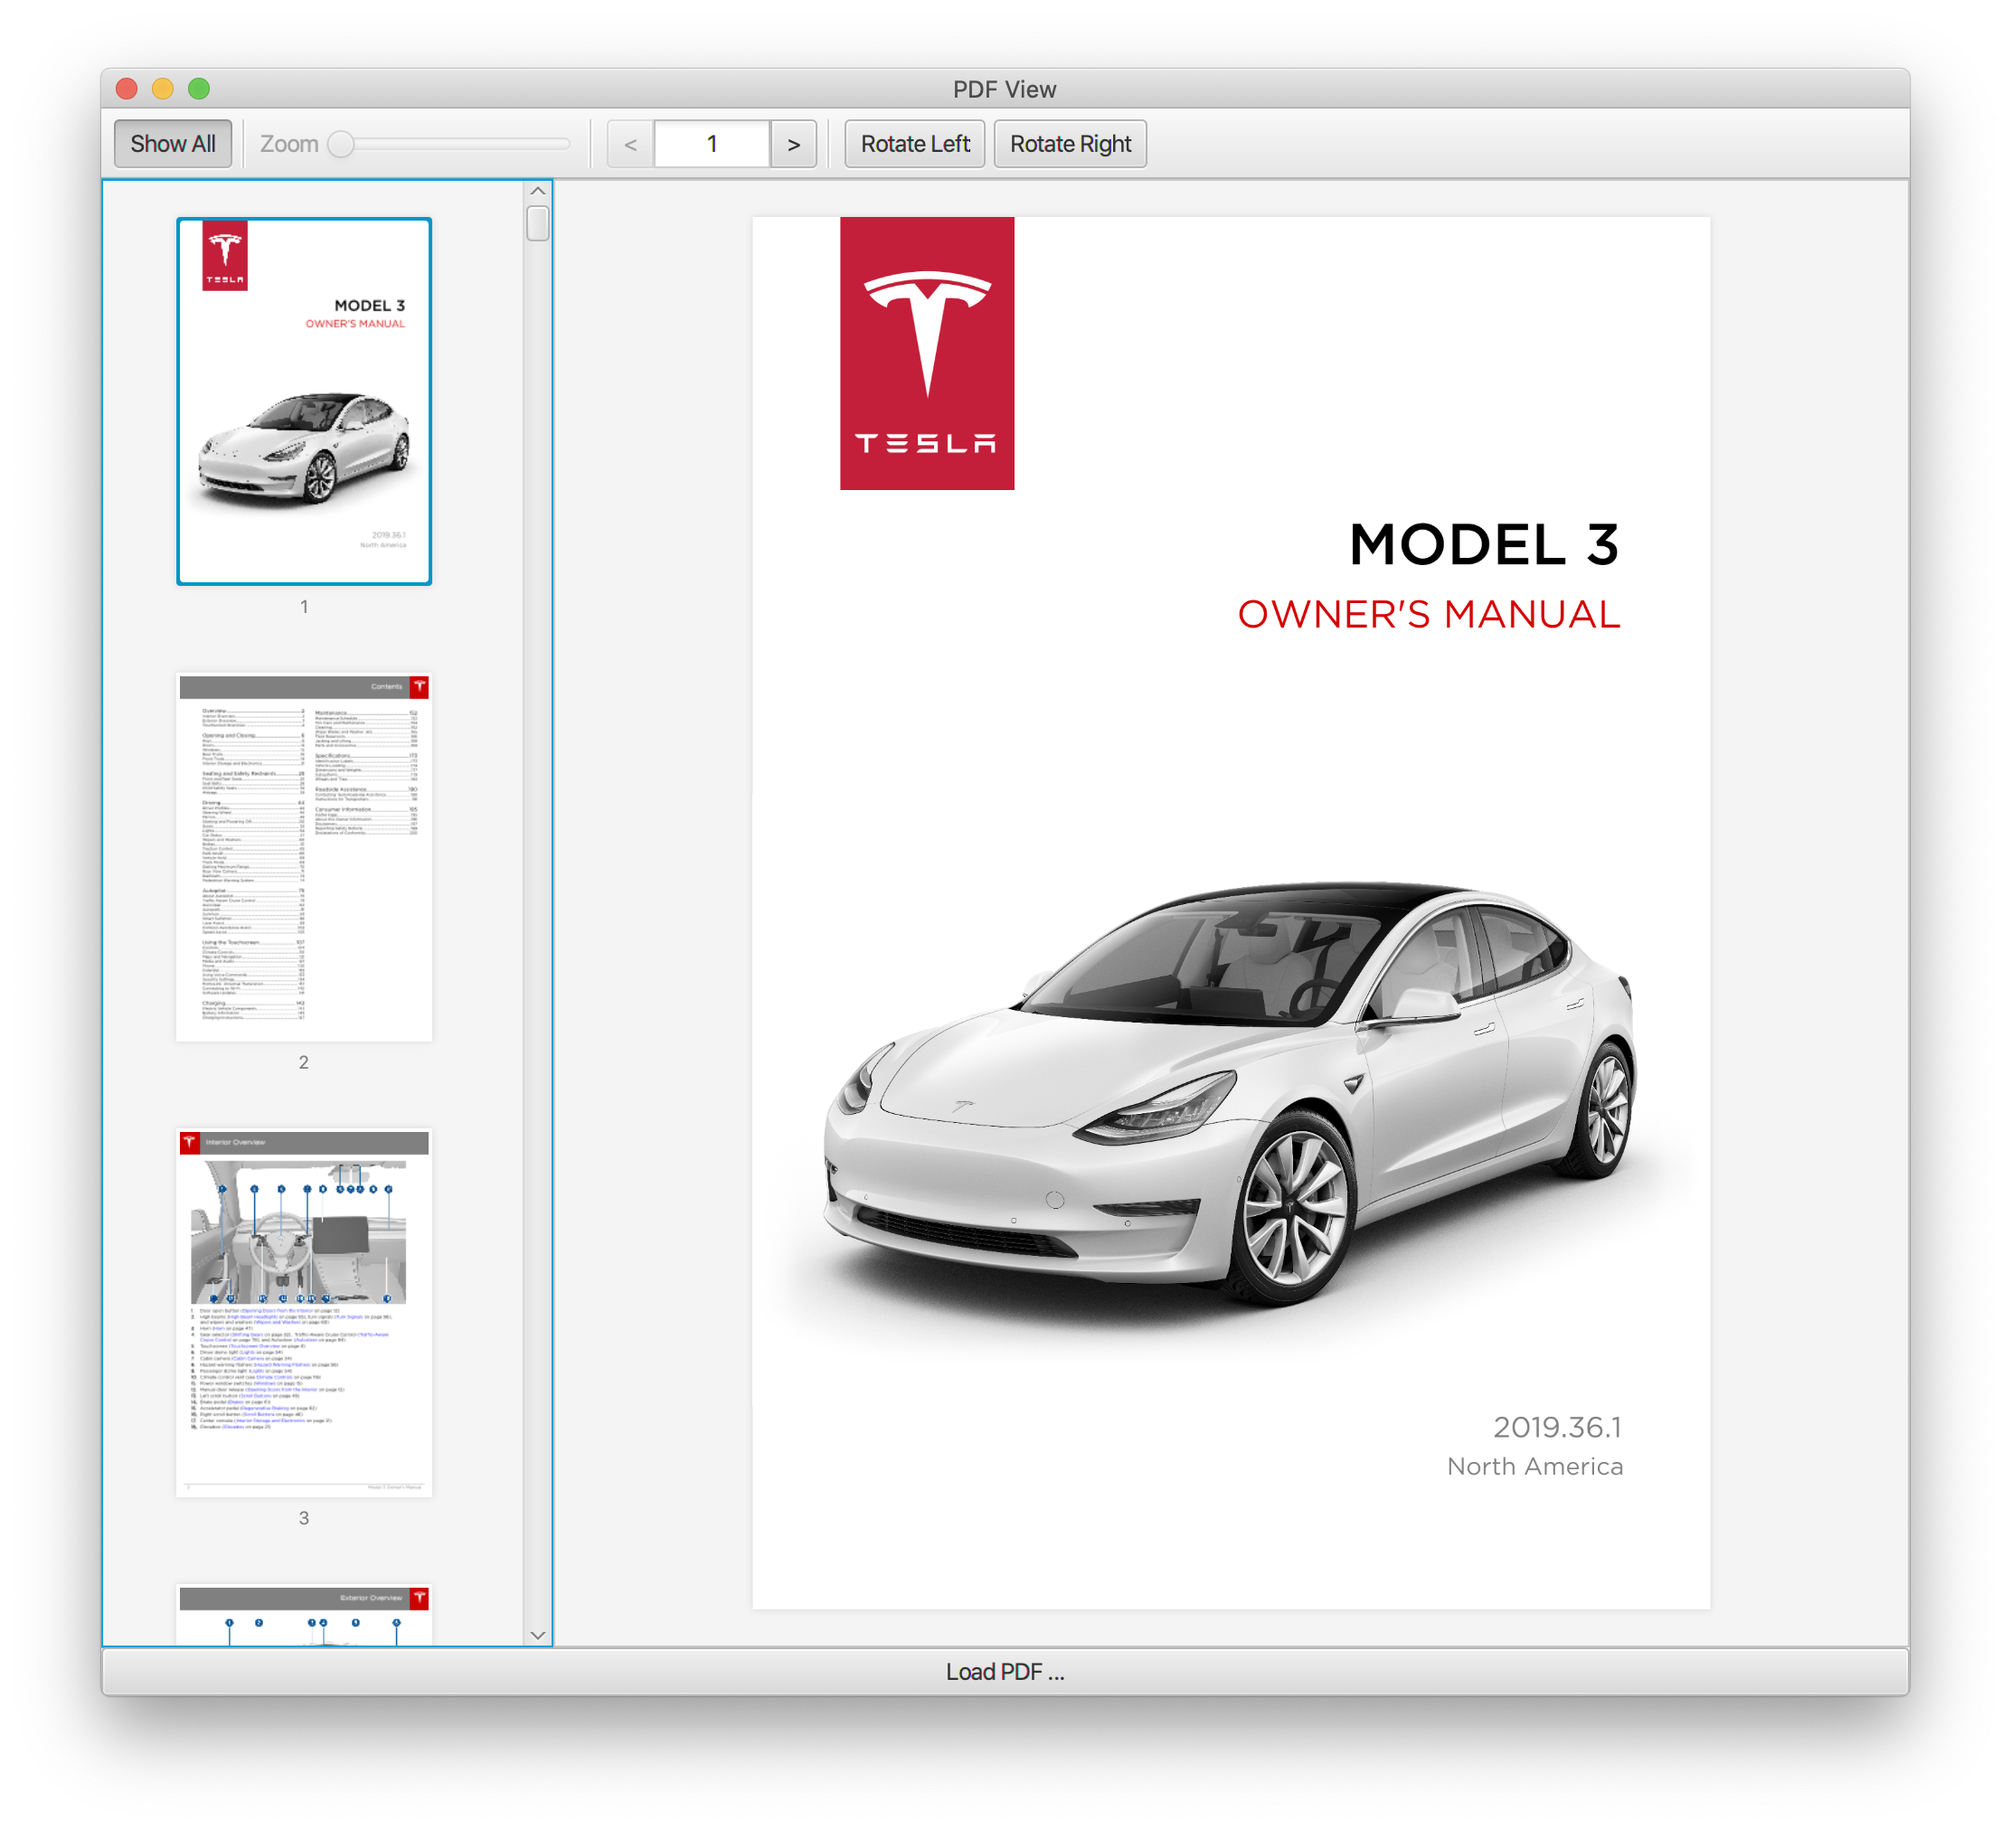
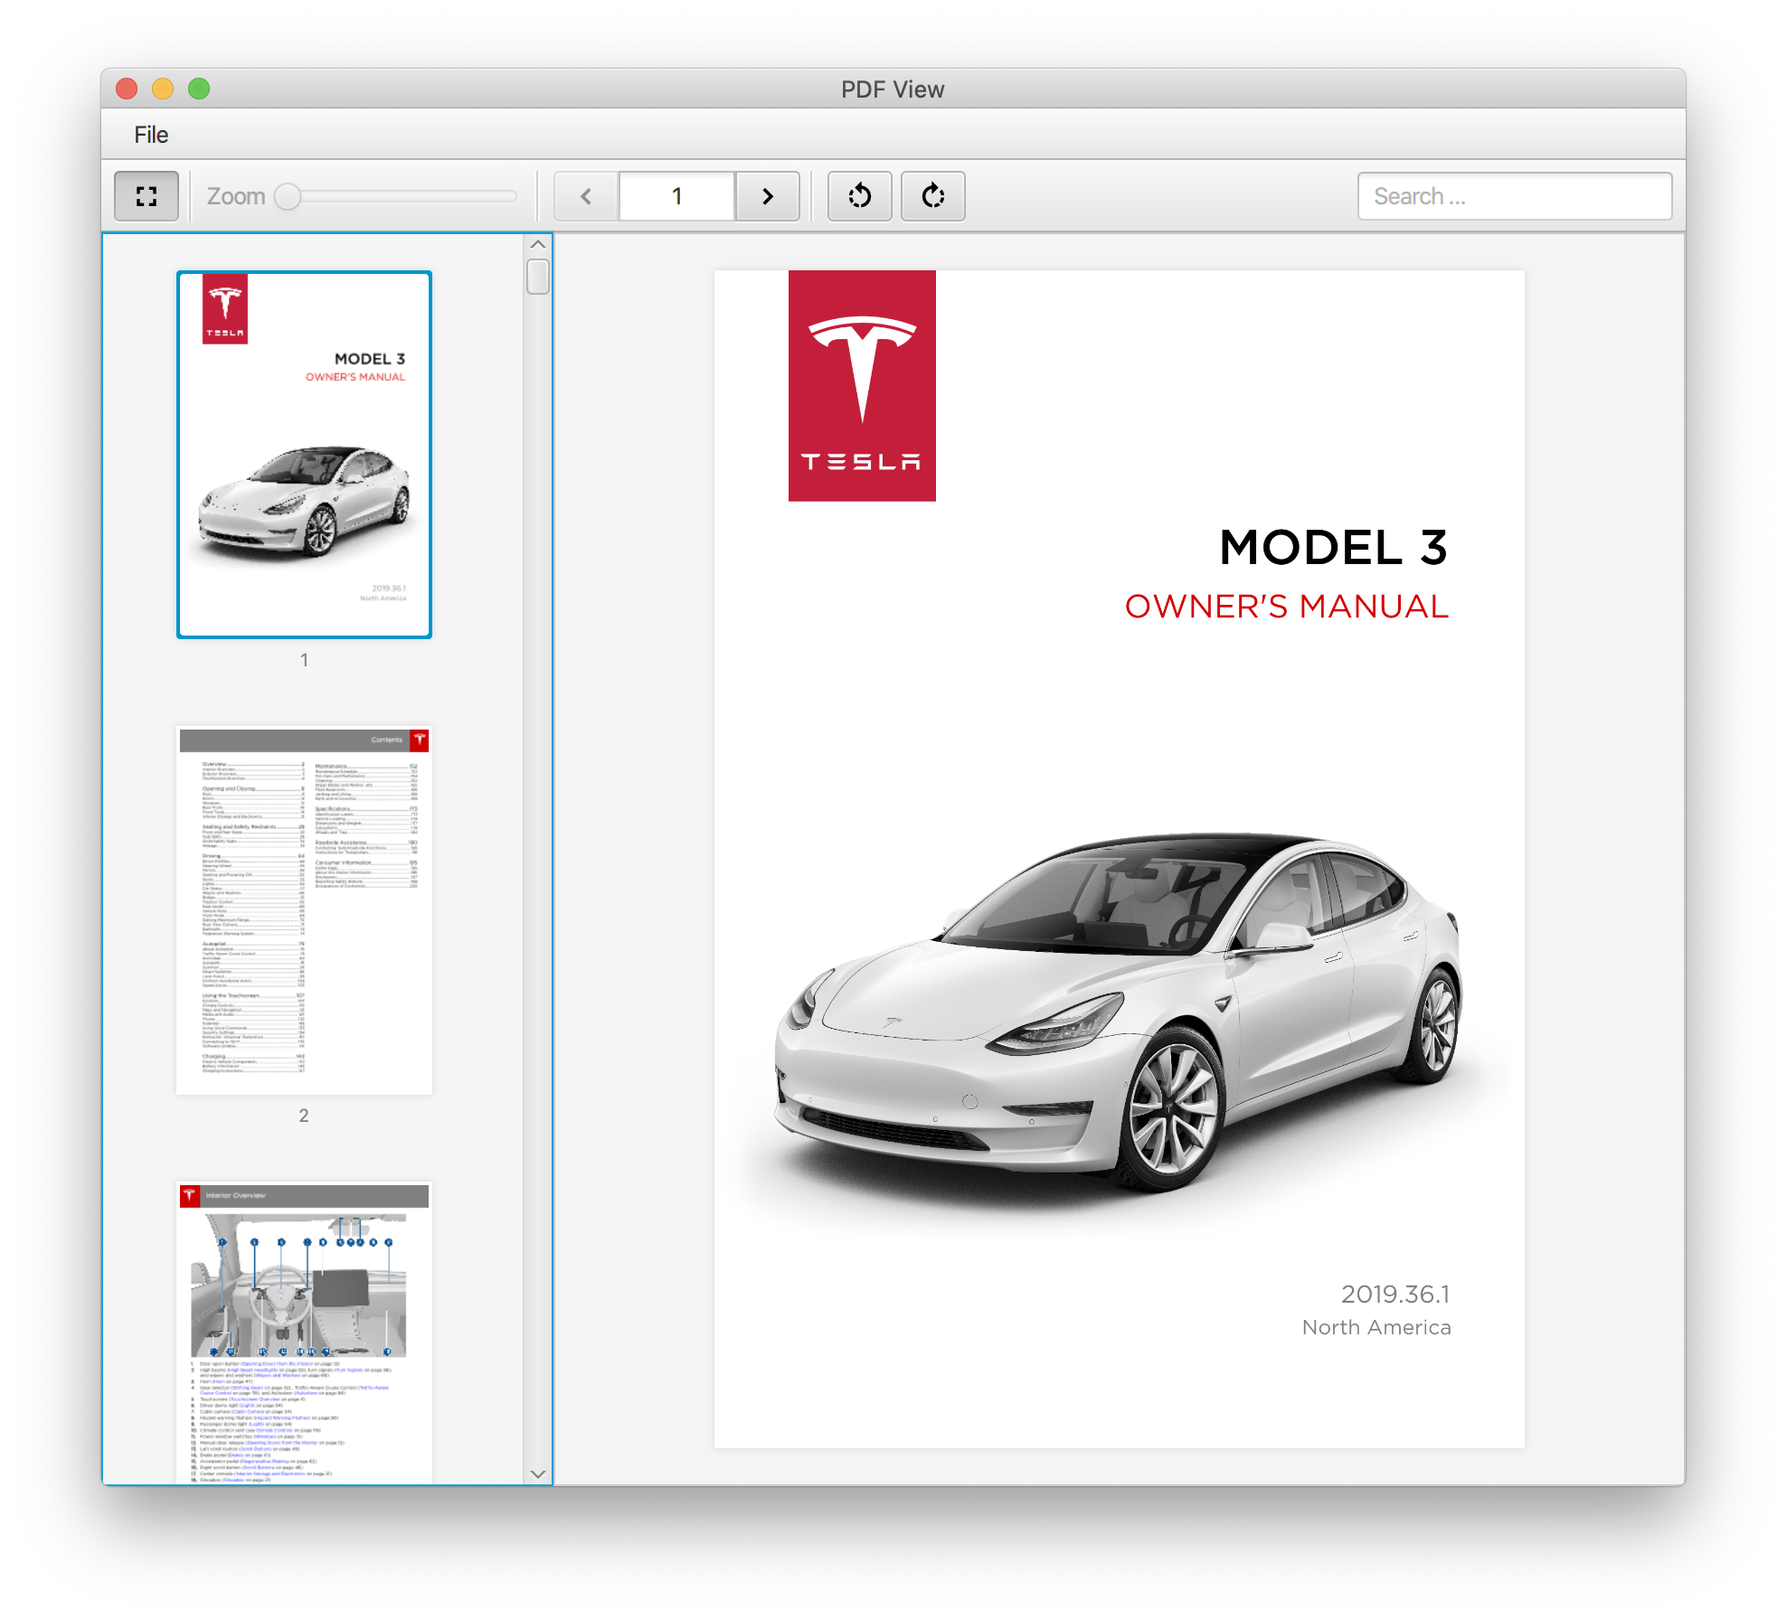
Updated README.md

diff --git a/README.md b/README.md
@@ -12,6 +12,10 @@ A custom control that allows an application to display PDF files. The control ut
 
 ![PDFView](gemsfx/docs/pdf-view.png)
 
+The view has excellent built-in search capabilities.
+
+![PDFView](gemsfx/docs/pdf-view-search.png)
+
 ## DrawerStackPane
 
 A stackpane with an optional node that can be shown inside a drawer. The drawer is animated and can slide in and out. When the drawer is showing a semi-transparent glass pane will cover the background. In addition the last height of the drawer can be persisted via the preferences API so that next time the drawer will show itself like in the last user session.
